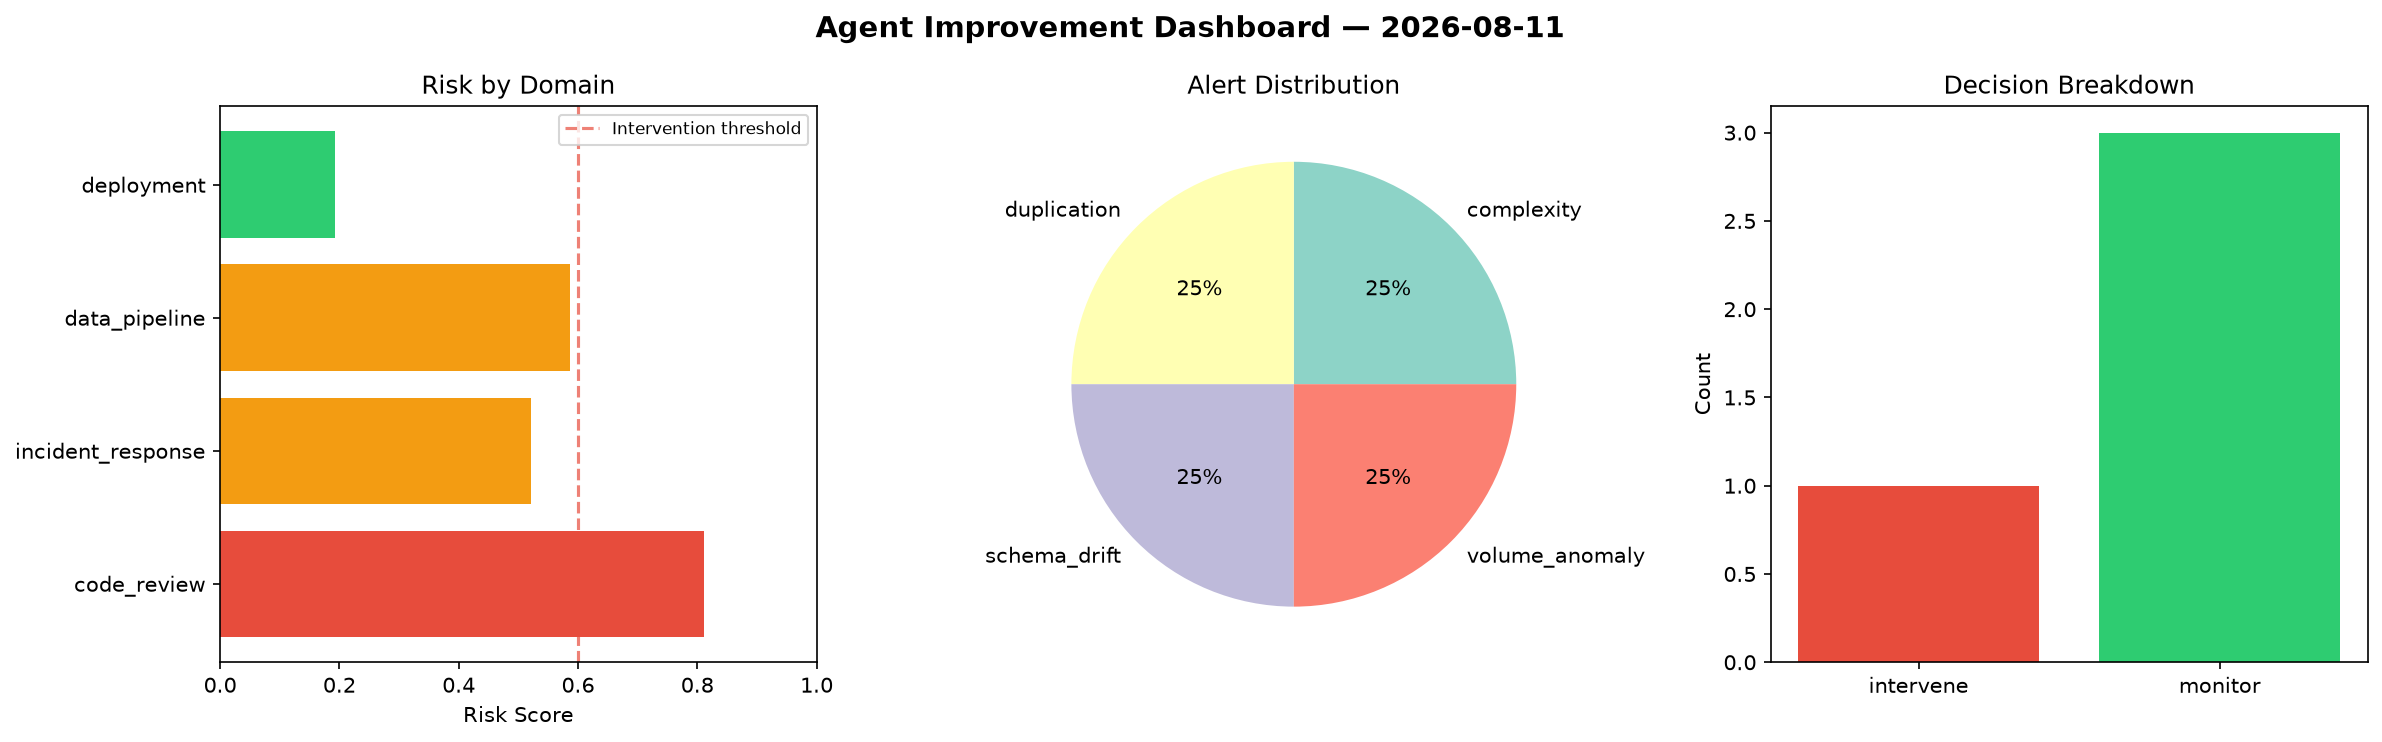
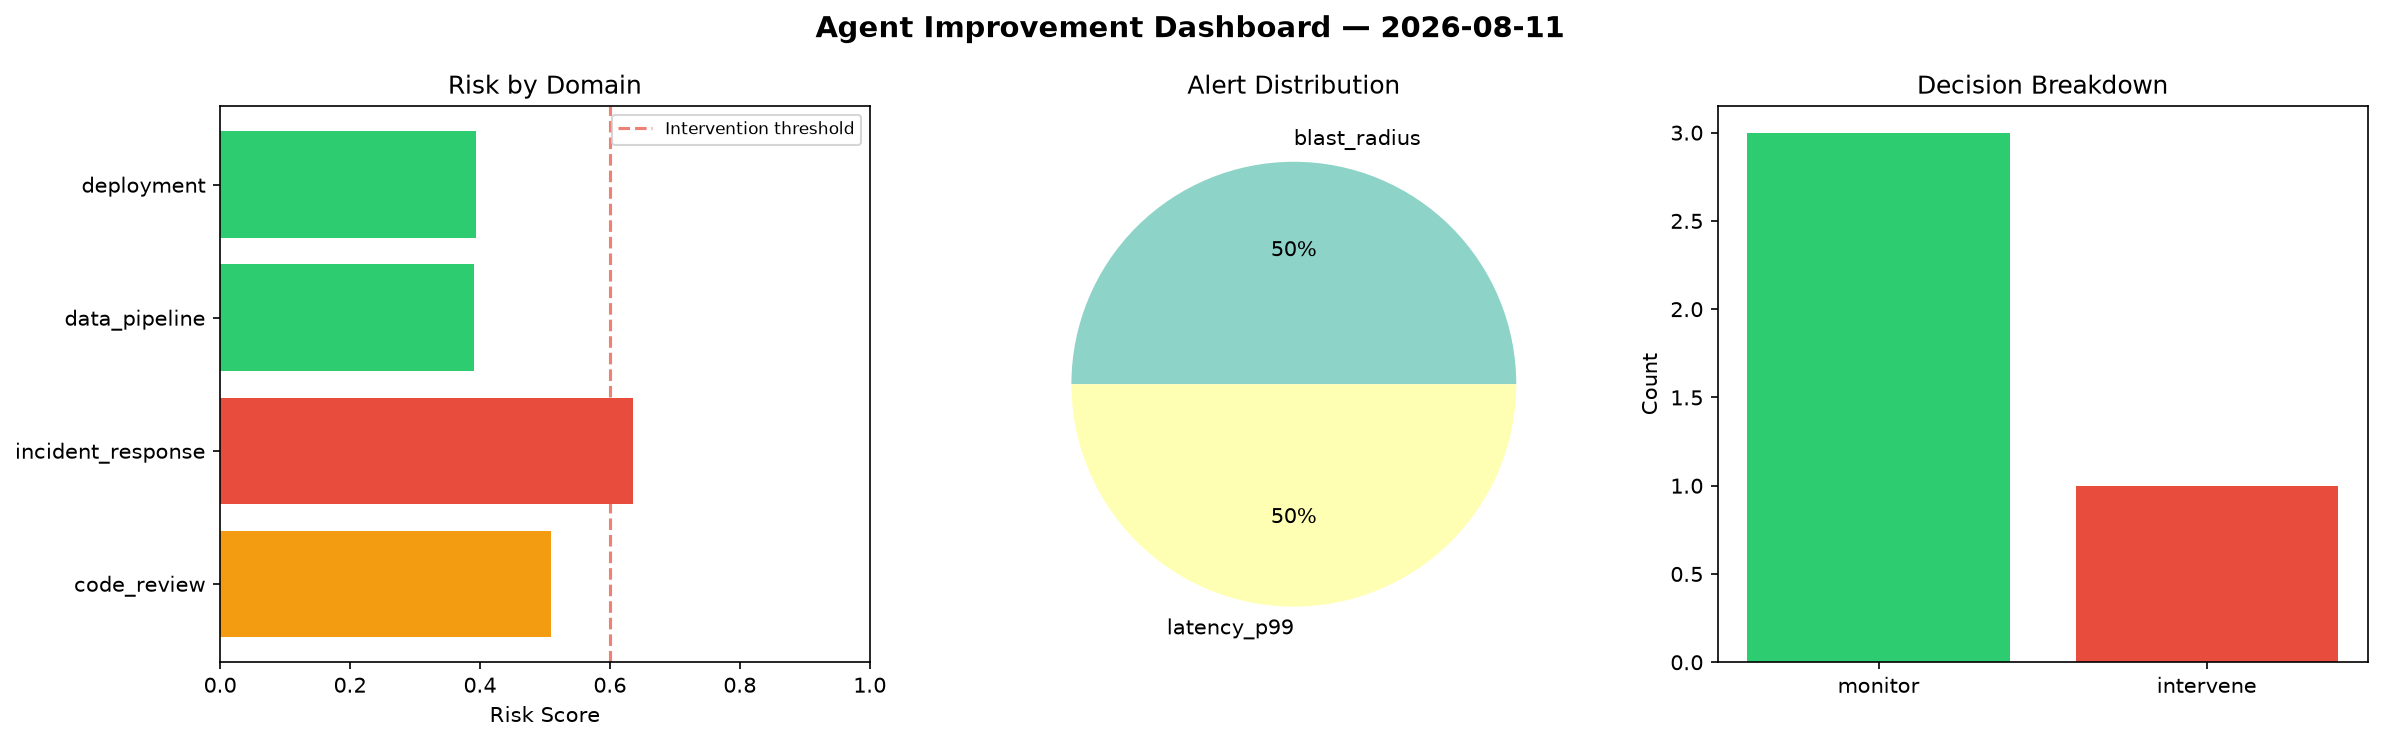
agent-improvement: daily cycle 2026-08-11T09:13

diff --git a/logs/2026-08-11.md b/logs/2026-08-11.md
@@ -1,6 +1,6 @@
 # Agent Improvement Report — 2026-08-11
 
-**Cycle ID:** `6be68ea1` | **Avg Risk:** 0.5279 | **Interventions:** 1/4
+**Cycle ID:** `f8456cb4` | **Avg Risk:** 0.4828 | **Interventions:** 1/4
 
 ![Dashboard](2026-08-11_dashboard.png)
 
@@ -10,18 +10,18 @@
 
 | Domain | Risk Score | Decision | Alerts |
 |--------|-----------|----------|--------|
-| code_review | 0.8115 | intervene | complexity, duplication |
-| incident_response | 0.5214 | monitor | none |
-| data_pipeline | 0.5859 | monitor | schema_drift, volume_anomaly |
-| deployment | 0.1926 | monitor | none |
+| code_review | 0.5092 | monitor | none |
+| incident_response | 0.636 | intervene | blast_radius |
+| data_pipeline | 0.3913 | monitor | none |
+| deployment | 0.3946 | monitor | latency_p99 |
 
 ## Delta vs Yesterday
 
 | Domain | Today | Yesterday | Change |
 |--------|-------|-----------|--------|
-| code_review | 0.8115 | 0.6321 | 📈 28.4% |
-| incident_response | 0.5214 | 0.6121 | 📉 -14.8% |
-| data_pipeline | 0.5859 | 0.4778 | 📈 22.6% |
-| deployment | 0.1926 | 0.6432 | 📉 -70.1% |
+| code_review | 0.5092 | 0.6321 | 📉 -19.4% |
+| incident_response | 0.636 | 0.6121 | 📈 3.9% |
+| data_pipeline | 0.3913 | 0.4778 | 📉 -18.1% |
+| deployment | 0.3946 | 0.6432 | 📉 -38.7% |
 
 **Refinement:** `{'adjustment': 'maintain', 'trend': 'improving', 'window': 4}`
